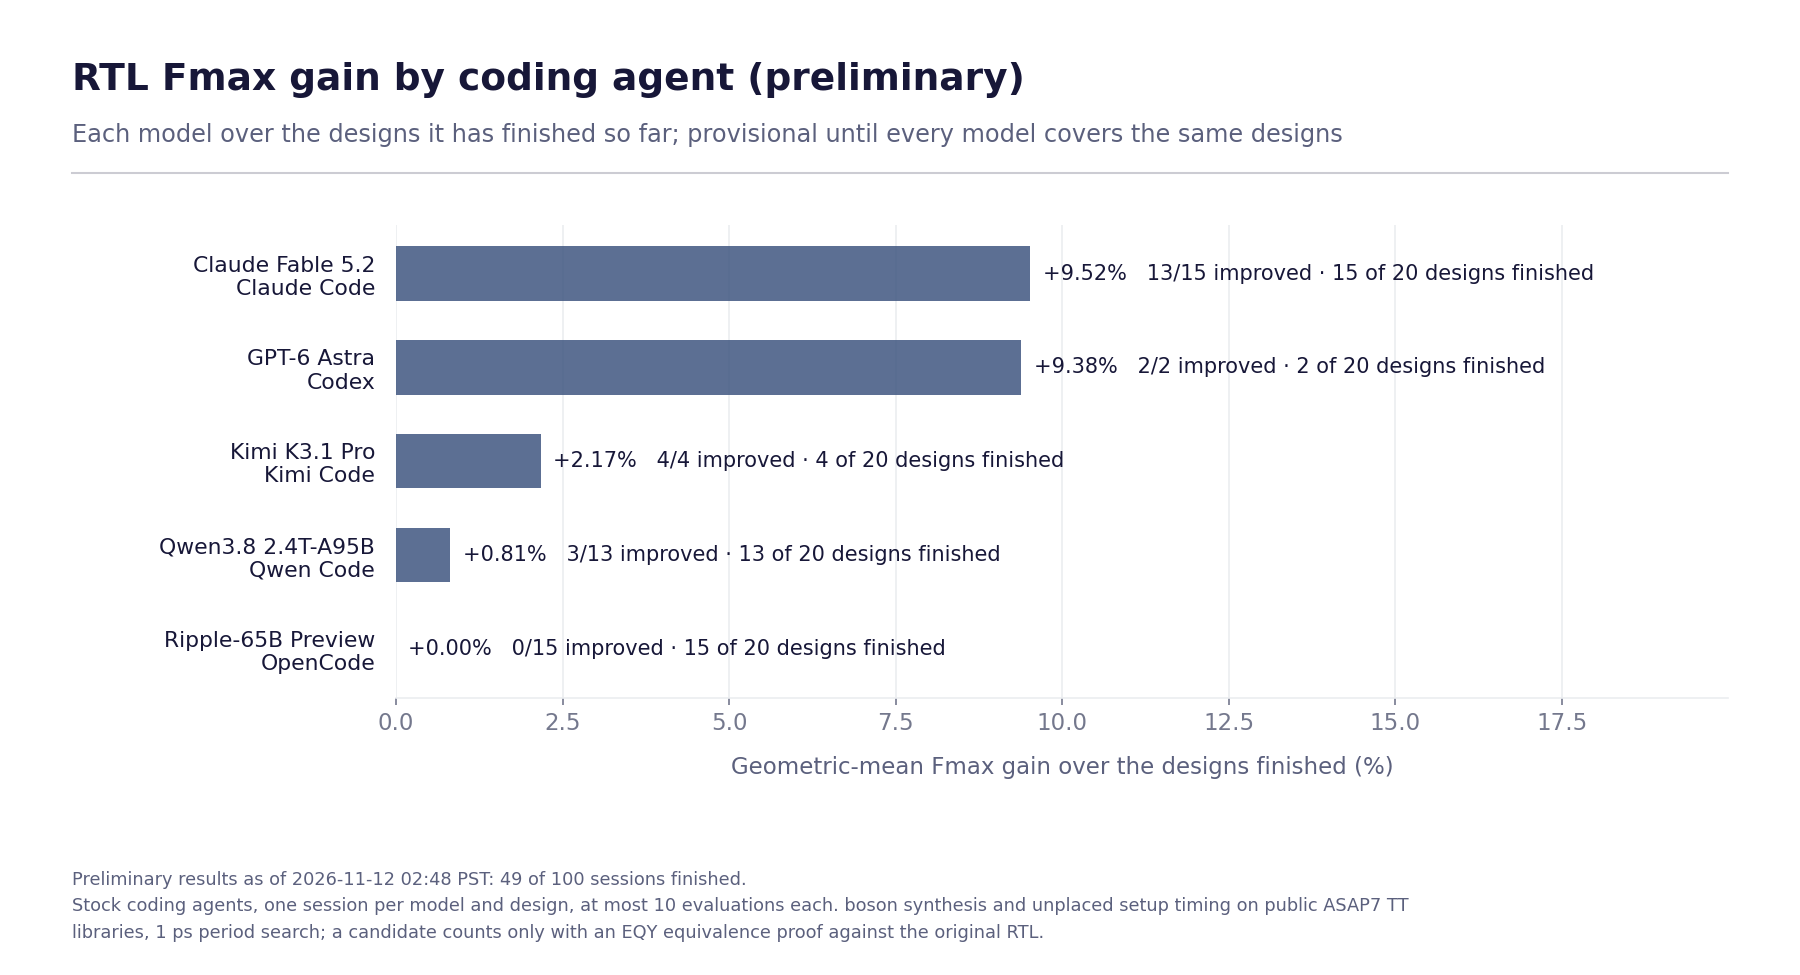
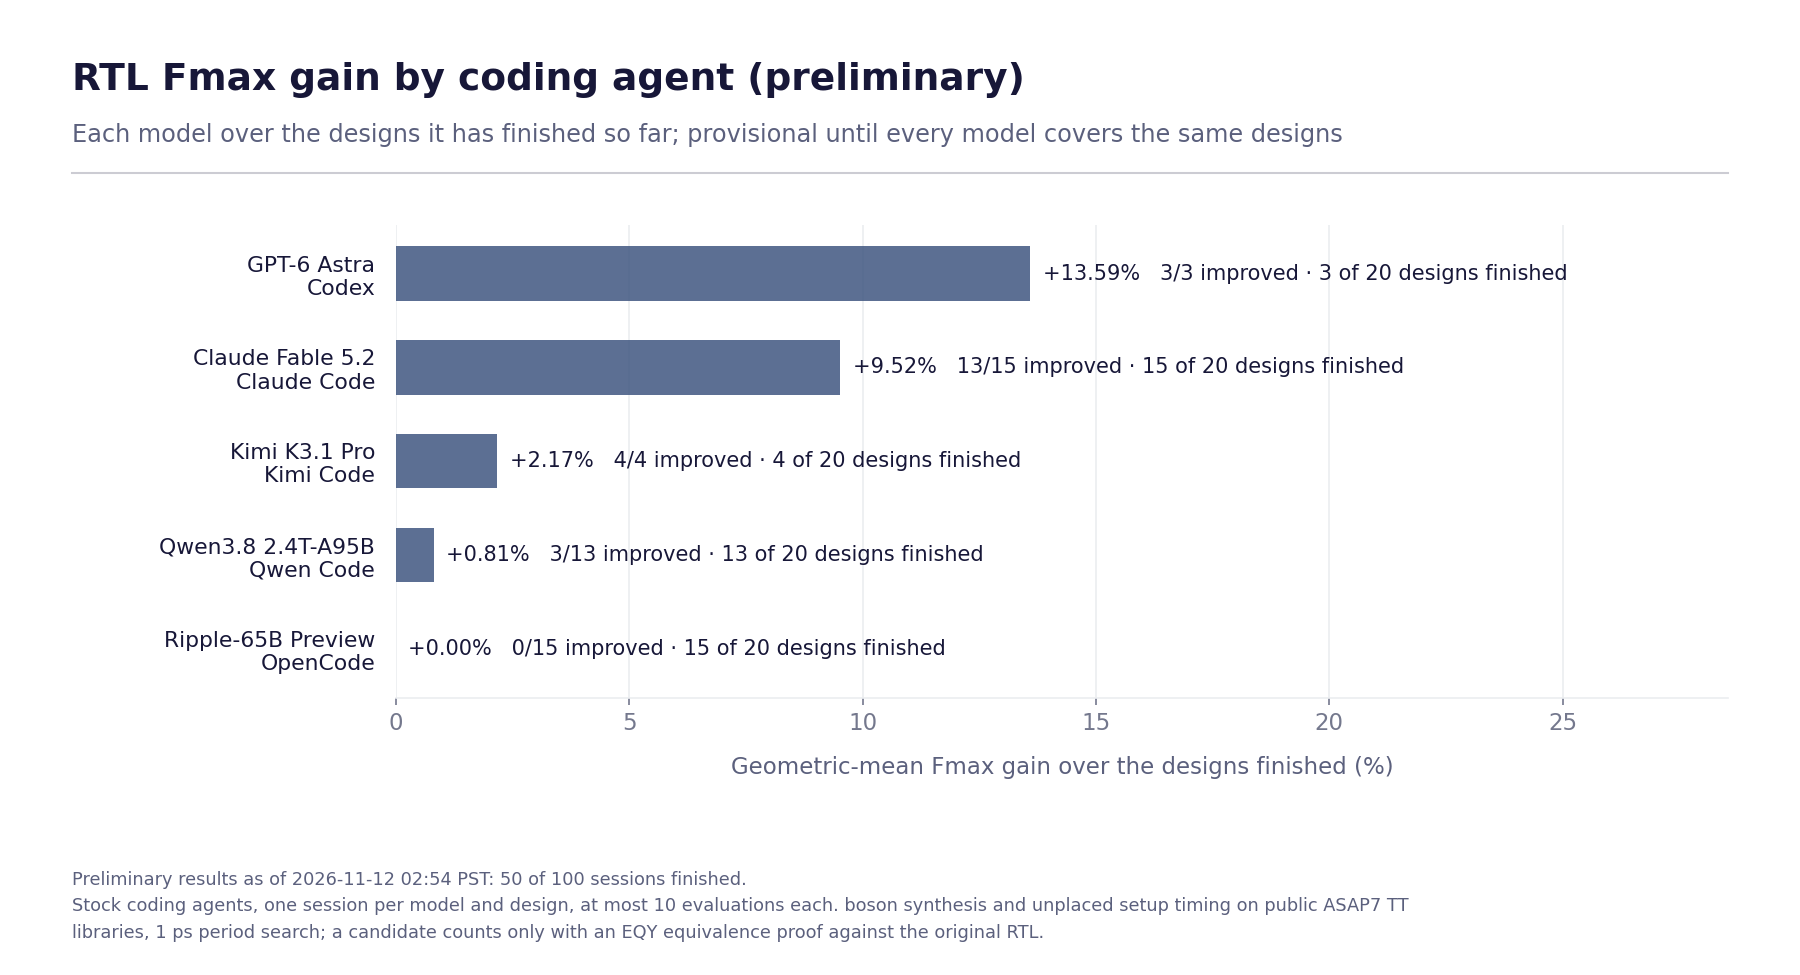
Refresh preliminary results: 50 of 100 sessions finished
Data as of 2026-11-12 02:54 PST.

diff --git a/README.md b/README.md
@@ -21,14 +21,14 @@ accepted only when it is proven equivalent and faster than the session's best so
 ## Results
 
 <!-- results:start -->
-**Status:** 49 of 100 sessions finished (5 models, 20 designs), as of 2026-11-12 02:48 PST. 11 interrupted attempts are excluded from these results while awaiting a valid replacement.
+**Status:** 50 of 100 sessions finished (5 models, 20 designs), as of 2026-11-12 02:54 PST. 11 interrupted attempts are excluded from these results while awaiting a valid replacement.
 
 ### Coverage
 
 | Model | Developer | Harness | Access | Sessions finished |
 |---|---|---|---|---:|
 | Claude Fable 5.2 | Anthropic | Claude Code 2.1.322 | Official CLI signed in to a subscription | 15 / 20 |
-| GPT-6 Astra | OpenAI | Codex 0.154.0 | Official CLI signed in to a subscription | 2 / 20 |
+| GPT-6 Astra | OpenAI | Codex 0.154.0 | Official CLI signed in to a subscription | 3 / 20 |
 | Kimi K3.1 Pro | Moonshot AI | Kimi Code 2.5.2 | OpenRouter, pinned to Moonshot AI's own endpoint (MXFP4), fallbacks disabled | 4 / 20 |
 | Qwen3.8 2.4T-A95B | Qwen (Alibaba) | Qwen Code 0.27.1 | OpenRouter, one pinned provider (SiliconFlow, FP8) | 13 / 20 |
 | Ripple-65B Preview | Ricursive AI | OpenCode 1.19.5 | Self-hosted (SGLang 0.5.19, BF16) for its first 15 designs; OpenRouter pinned to PrimeIntellect (BF16) for later sessions | 15 / 20 |
@@ -37,8 +37,8 @@ accepted only when it is proven equivalent and faster than the session's best so
 
 | Model | Harness | Designs finished | Fmax gain (geomean) | Designs improved | Mean evaluations | Candidates not proven |
 |---|---|---:|---:|---:|---:|---:|
+| GPT-6 Astra | Codex | 3 / 20 | +13.59% | 3 / 3 | 9.0 | 33% (9 / 27) |
 | Claude Fable 5.2 | Claude Code | 15 / 20 | +9.52% | 13 / 15 | 4.9 | 37% (27 / 73) |
-| GPT-6 Astra | Codex | 2 / 20 | +9.38% | 2 / 2 | 8.5 | 47% (8 / 17) |
 | Kimi K3.1 Pro | Kimi Code | 4 / 20 | +2.17% | 4 / 4 | 7.0 | 54% (15 / 28) |
 | Qwen3.8 2.4T-A95B | Qwen Code | 13 / 20 | +0.81% | 3 / 13 | 1.1 | 80% (12 / 15) |
 | Ripple-65B Preview | OpenCode | 15 / 20 | +0.00% | 0 / 15 | 0.2 | 100% (3 / 3) |
@@ -62,7 +62,7 @@ Fmax gain is the geometric mean of each finished session's Fmax ratio (baseline 
 | `spi_host.default` | 0.475 | 2 | 0.475 | +0.00% | no improvement yet |
 | `snitch_cluster.minimal` | 1.288 | 3 | 1.201 | +7.24% | Claude Fable 5.2 |
 | `ita.default` | 0.903 | 3 | 0.900 | +0.33% | Claude Fable 5.2 |
-| `mempool.minpool` | 2.869 | 2 | 2.374 | +20.85% | Claude Fable 5.2 |
+| `mempool.minpool` | 2.869 | 3 | 2.342 | +22.50% | GPT-6 Astra |
 | `ara.default` | 1.064 | 2 | 0.942 | +12.95% | Claude Fable 5.2 |
 | `pulp_c910.default` | 1.005 | 3 | 0.930 | +8.06% | GPT-6 Astra |
 | `spatz.default` | 2.266 | 2 | 1.868 | +21.31% | Claude Fable 5.2 |
@@ -74,9 +74,9 @@ Fmax gain is the geometric mean of each finished session's Fmax ratio (baseline 
 
 Counts over every finished session of the models above. They describe what happened; with one session per model and design they do not establish causes or rankings.
 
-- 136 candidates evaluated: 58 accepted, 13 proven equivalent but not faster than the session's best, 65 not proven (44 with a partition EQY could not prove, 10 at the proof deadline, 11 over the proof memory budget), 0 failed to compile or measure.
-- Of 49 finished sessions, 25 ended with the agent finishing on its own, 23 ran to the time budget and 1 ended with an agent error.
-- Sessions used 2.8 of the 10 allowed evaluations on average; 2 used all 10.
+- 146 candidates evaluated: 63 accepted, 16 proven equivalent but not faster than the session's best, 66 not proven (45 with a partition EQY could not prove, 10 at the proof deadline, 11 over the proof memory budget), 1 failed to compile or measure.
+- Of 50 finished sessions, 26 ended with the agent finishing on its own, 23 ran to the time budget and 1 ended with an agent error.
+- Sessions used 2.9 of the 10 allowed evaluations on average; 3 used all 10.
 - Largest single gain so far: `cvfpu.fp32_fma` by Claude Fable 5.2, 1.401 ns to 1.070 ns (+30.93% Fmax).
 - No finished session has improved `ibex.full`, `nvdla.top`, `opope.default`, `spi_host.default` yet.
 <!-- results:end -->
